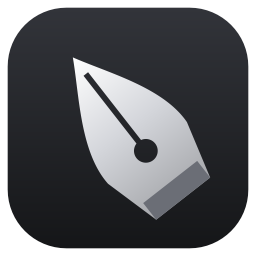
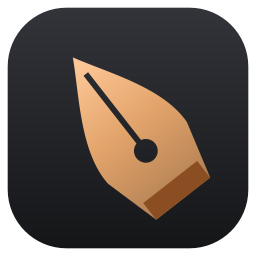
A muted copper accent on the black and grey
The grounds stay black and grey; the accent and nib return as a quieter
copper than the old amber (brighter on dark, deeper on light). Silver stays
as the all-grey option. Icon, tray and installer: graphite tile, copper nib.

Changed region(s): [[0.2812, 0.2188, 0.8125, 0.875]]

diff --git a/ui/panel/style.py b/ui/panel/style.py
@@ -133,10 +133,14 @@ def is_dark() -> bool:
 
 # ── The accent: warm, living, personal. Read from preferences everywhere so
 #    a user's chosen colour flows through the whole surface from one setting.
-# Silver on the dark ground, graphite on the light: a metal, not a colour.
-# "silver" is the default and follows the theme; the rest are optional.
+# The grounds are black and grey; the accent is the one warm thing on them: a
+# muted copper, quieter than the old amber, so it gives the page life without
+# shouting. "copper" is the default and follows the theme (brighter on dark,
+# deeper on light); "silver" is the all-grey option; the rest are optional.
+_COPPER = {"dark": "#C98B56", "light": "#AE6534"}
 _SILVER = {"dark": "#C7C9CF", "light": "#3B3E45"}
 _ACCENT_PRESETS = {
+    "copper":   "#C98B56",
     "silver":   "#C7C9CF",
     "graphite": "#8A8D95",
     "sky":      "#5AA6E0",
@@ -146,7 +150,7 @@ _ACCENT_PRESETS = {
 
 # Semantic signal — separate from the accent, never used decoratively.
 GOOD = "#7FB37A"            # a step finished, and it worked
-WARN = "#E7A54F"            # needs you (shares the accent's warmth on purpose)
+WARN = "#D9A05A"            # needs you (shares the accent's warmth on purpose)
 STOP = "#E06A54"            # a real failure, or a destructive confirmation
 
 
@@ -156,18 +160,20 @@ def accent() -> str:
         from config import preferences
 
         chosen = str(preferences.get("accent", "") or "").strip().lower()
-        if chosen in _ACCENT_PRESETS and chosen != "silver":
+        if chosen == "silver":
+            return _SILVER["dark" if is_dark() else "light"]
+        if chosen in _ACCENT_PRESETS and chosen != "copper":
             return _ACCENT_PRESETS[chosen]
         if chosen.startswith("#") and len(chosen) in (4, 7):
             return chosen
     except Exception:
         pass
-    return _SILVER["dark" if is_dark() else "light"]
+    return _COPPER["dark" if is_dark() else "light"]
 
 
 def on_accent() -> str:
     """The text colour that reads on the accent: near-black on a light
-    accent (silver), near-white on a dark one (graphite)."""
+    accent (copper on dark, silver), near-white on a deep one."""
     c = QColor(accent())
     luma = (0.2126 * c.redF() + 0.7152 * c.greenF() + 0.0722 * c.blueF())
     return "#0F0F10" if luma > 0.5 else "#F5F5F6"

diff --git a/installer/window.py b/installer/window.py
@@ -29,7 +29,7 @@ PAPER_DIM = "#EEEEF0"
 INK = "#0E0E10"
 GRAPHITE = "#525459"
 MIST = "#DCDCE0"
-ACCENT = "#3B3E45"
+ACCENT = "#AE6534"
 GOOD = "#5F8D5A"
 UI_FONT = "Segoe UI"
 
@@ -100,8 +100,8 @@ class InstallerWindow(QWidget):
                     from ui.workspace import nib
                     p.setBrush(QColor("#1E1F23"))
                     p.drawRoundedRect(0, 0, 46, 46, 11, 11)
-                    nib.paint_centred(p, QRectF(0, 0, 46, 46), QColor("#D4D6DB"),
-                                      QColor("#6B6E76"), scale=0.72)
+                    nib.paint_centred(p, QRectF(0, 0, 46, 46), QColor("#E3A46B"),
+                                      QColor("#8A4E22"), scale=0.72)
                     return
                 except Exception:
                     pass

diff --git a/packaging/generate_icon.py b/packaging/generate_icon.py
@@ -1,7 +1,7 @@
 """Regenerates packaging/icon.ico (and icon_256.png) from Mike's mark.
 
 The mark is the nib — a fountain-pen nib angled like a mouse pointer, cream on
-a graphite tile — drawn from the very same shape the app paints at
+a graphite tile with a copper nib — drawn from the very same shape the app paints at
 runtime (ui/workspace/nib.py), so the taskbar, the Start menu, the shortcut
 and the window's own mark can never drift apart.
 
@@ -27,8 +27,8 @@ SIZES = [16, 24, 32, 48, 64, 128, 256]
 
 TILE_TOP = "#33353B"
 TILE_BOTTOM = "#141517"
-NIB = "#D4D6DB"
-COLLAR = "#6B6E76"
+NIB = "#E3A46B"
+COLLAR = "#8A4E22"
 
 
 def render(px: int):

diff --git a/ui/workspace/pages.py b/ui/workspace/pages.py
@@ -363,7 +363,7 @@ class GeneralTab(_Tab):
         arow.setContentsMargins(0, 0, 0, 0)
         arow.setSpacing(6)
         self._swatches: list[_Swatch] = []
-        cur_accent = str(preferences.get("accent", "") or "silver").lower()
+        cur_accent = str(preferences.get("accent", "") or "copper").lower()
         for name, colour in style.accent_presets().items():
             sw = _Swatch(name, colour, self._set_accent)
             sw.set_selected(name == cur_accent)

diff --git a/ui/panel/mike_panel.py b/ui/panel/mike_panel.py
@@ -1070,9 +1070,9 @@ class _SettingsView(QScrollArea):
     def _current_accent_name(self) -> str:
         try:
             from config import preferences
-            return str(preferences.get("accent", "silver") or "silver").lower()
+            return str(preferences.get("accent", "copper") or "copper").lower()
         except Exception:
-            return "silver"
+            return "copper"
 
     def _pick_accent(self, name: str) -> None:
         try:

diff --git a/ui/app.py b/ui/app.py
@@ -52,7 +52,7 @@ def _tray_icon() -> QIcon:
         painter.setPen(Qt.NoPen)
         painter.setBrush(QColor("#1E1F23"))
         painter.drawRoundedRect(QRectF(0, 0, size, size), size * 0.22, size * 0.22)
-        nib.paint_centred(painter, QRectF(0, 0, size, size), QColor("#D4D6DB"), scale=0.8)
+        nib.paint_centred(painter, QRectF(0, 0, size, size), QColor("#E3A46B"), scale=0.8)
         painter.end()
         icon.addPixmap(pixmap)
     return icon
